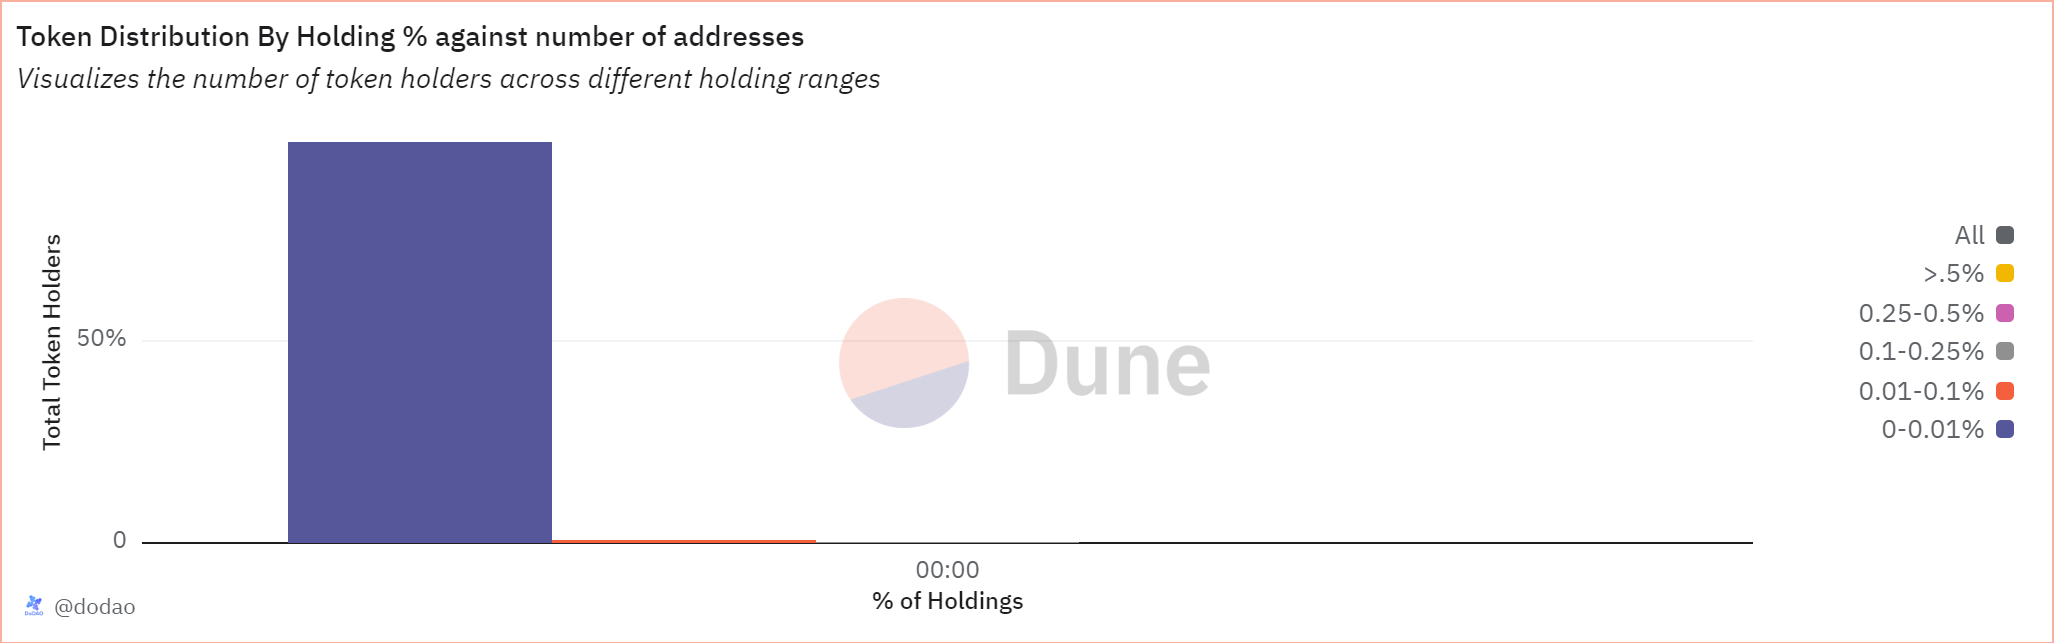
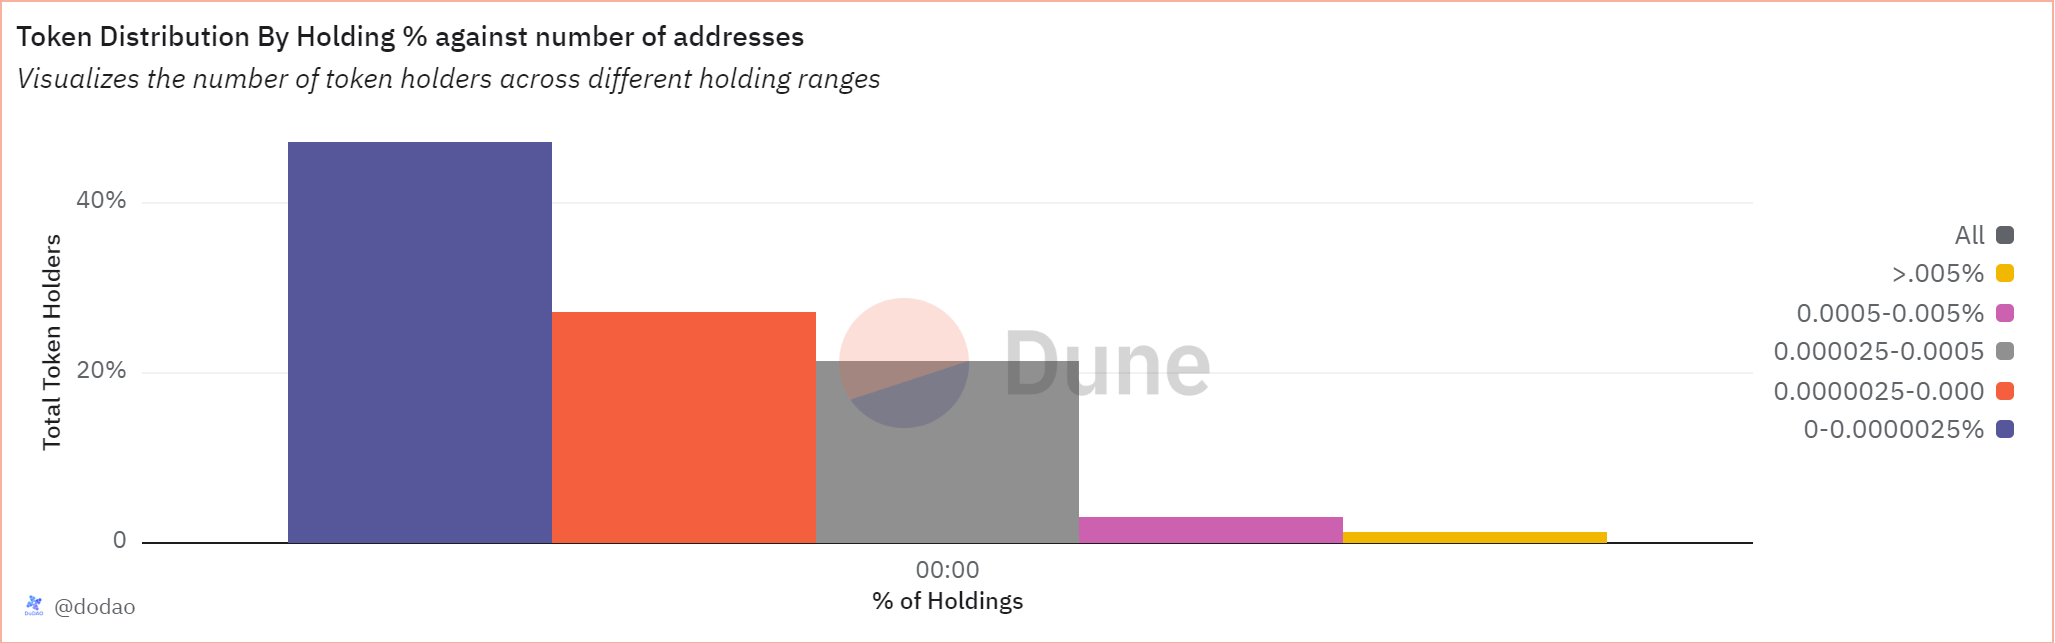
changes in ranges of total supply in query 10

diff --git a/src/compound/asset-analysis/10_distribution-by-holding-percentage-against-addresses/README.md b/src/compound/asset-analysis/10_distribution-by-holding-percentage-against-addresses/README.md
@@ -209,32 +209,32 @@ token_holders_with_token_value AS (
       COUNT(
         CASE
           WHEN b.balance > 0
-          AND b.balance <= ts.total_supply * 0.0001 THEN b.address
+          AND b.balance <= ts.total_supply * 0.000000025 THEN b.address
         END
-      ) AS "0-0.01%",
+      ) AS "0-0.0000025%",
       COUNT(
         CASE
-          WHEN b.balance > ts.total_supply * 0.0001
-          AND b.balance <= ts.total_supply * 0.001 THEN b.address
+          WHEN b.balance > ts.total_supply * 0.000000025
+          AND b.balance <= ts.total_supply * 0.00000025 THEN b.address
         END
-      ) AS "0.01-0.1%",
+      ) AS "0.0000025-0.000025%",
       COUNT(
         CASE
-          WHEN b.balance > ts.total_supply * 0.001
-          AND b.balance <= ts.total_supply * 0.0025 THEN b.address
+          WHEN b.balance > ts.total_supply * 0.00000025
+          AND b.balance <= ts.total_supply * 0.000005 THEN b.address
         END
-      ) AS "0.1-0.25%",
+      ) AS "0.000025-0.0005%",
       COUNT(
         CASE
-          WHEN b.balance > ts.total_supply * 0.0025
-          AND b.balance <= ts.total_supply * 0.005 THEN b.address
+          WHEN b.balance > ts.total_supply * 0.000005 
+          AND b.balance <= ts.total_supply * 0.00005 THEN b.address
         END
-      ) AS "0.25-0.5%",
+      ) AS "0.0005-0.005%",
       COUNT(
         CASE
-          WHEN b.balance > ts.total_supply * 0.005 THEN b.address
+          WHEN b.balance > ts.total_supply * 0.00005 THEN b.address
         END
-      ) AS ">.5%"
+      ) AS ">.005%"
     FROM
       token_balance_all_days AS b
       CROSS JOIN token_total_supply ts
@@ -251,20 +251,16 @@ The final SELECT statement retrieves the date and counts of token holders for ea
 ```sql
 SELECT
   htv_token."Date" AS "Date",
-  COALESCE(htv_token."0-0.01%", 0) AS "0-0.01%",
-  COALESCE(htv_token."0.01-0.1%", 0) AS "0.01-0.1%",
-  COALESCE(htv_token."0.1-0.25%", 0) AS "0.1-0.25%",
-  COALESCE(htv_token."0.25-0.5%", 0) AS "0.25-0.5%",
-  COALESCE(htv_token.">.5%", 0) AS ">.5%"
+  COALESCE(htv_token."0-0.0000025%", 0) AS "0-0.0000025%",
+  COALESCE(htv_token."0.0000025-0.000025%", 0) AS "0.0000025-0.000025%",
+  COALESCE(htv_token."0.000025-0.0005%", 0) AS "0.000025-0.0005%",
+  COALESCE(htv_token."0.0005-0.005%", 0) AS "0.0005-0.005%",
+  COALESCE(htv_token.">.005%", 0) AS ">.005%"
 FROM
   token_holders_with_token_value htv_token
 ORDER BY
   htv_token."Date";
 ```
-
-**Hardcoded addresses**
-
-- [0x0000000000000000000000000000000000000000](https://etherscan.io/address/0x0000000000000000000000000000000000000000): This address is not owned by any user, is often associated with token burn & mint/genesis events and used as a generic null address
 
 ## Tables used
 
